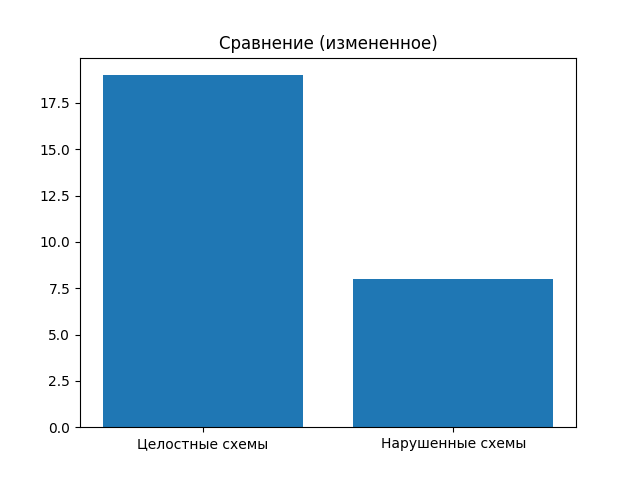
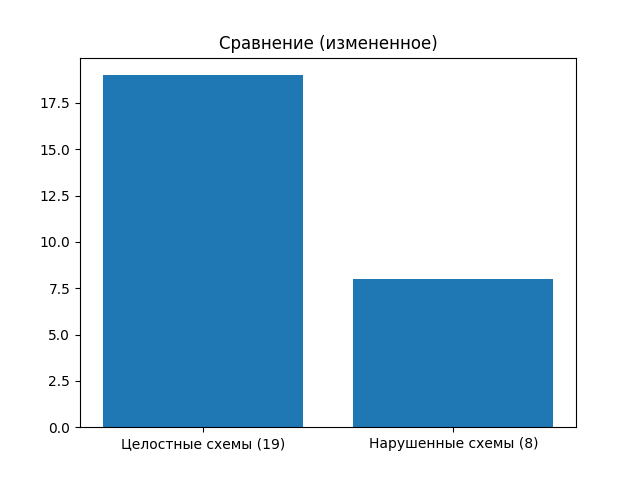
Изменение 9 - индивидуальное задание
Добавлено отображение количества целостных и нарушенных схем на графиках

Changed region(s): [[0.5625, 0.9062, 0.8438, 0.9375], [0.1875, 0.9062, 0.4375, 0.9375]]

diff --git a/individual.py b/individual.py
@@ -158,14 +158,15 @@ print(tfame.to_string(max_colwidth=50))
 #3. Контейнер визуализации
 ok = res_list.count("Схема целостна")
 bad = res_list.count("Схема нарушена!")
+total = ok + bad
 
 plt.figure()
-plt.pie([ok, bad], labels=["Целостные схемы", "Нарушенные схемы"], autopct="%1.1f%%")
+plt.pie([ok, bad], labels=[f"Целостные схемы ({ok})", f"Нарушенные схемы ({bad})"], autopct="%1.1f%%")
 plt.title("Результаты проверки (измененные)")
 plt.savefig("chartpie_ind.png")
 
 plt.figure()
-plt.bar(["Целостные схемы", "Нарушенные схемы"], [ok, bad]) 
+plt.bar([f"Целостные схемы ({ok})", f"Нарушенные схемы ({bad})"], [ok, bad]) 
 plt.title("Сравнение (измененное)")
 plt.savefig("chartbar_ind.png")
 plt.close()
@@ -179,7 +180,7 @@ for x in res_list:
     vals.append(0)
 plt.plot(Y, vals)
 plt.xlabel("Номер проверки")
-plt.ylabel("1 - целостна, 0 - нарушена")
+plt.ylabel(f"1 - целостна ({ok}), 0 - нарушена({bad})")
 plt.title("Динамика проверок (измененная)")
 plt.savefig("chartline_ind.png")
 plt.close()
